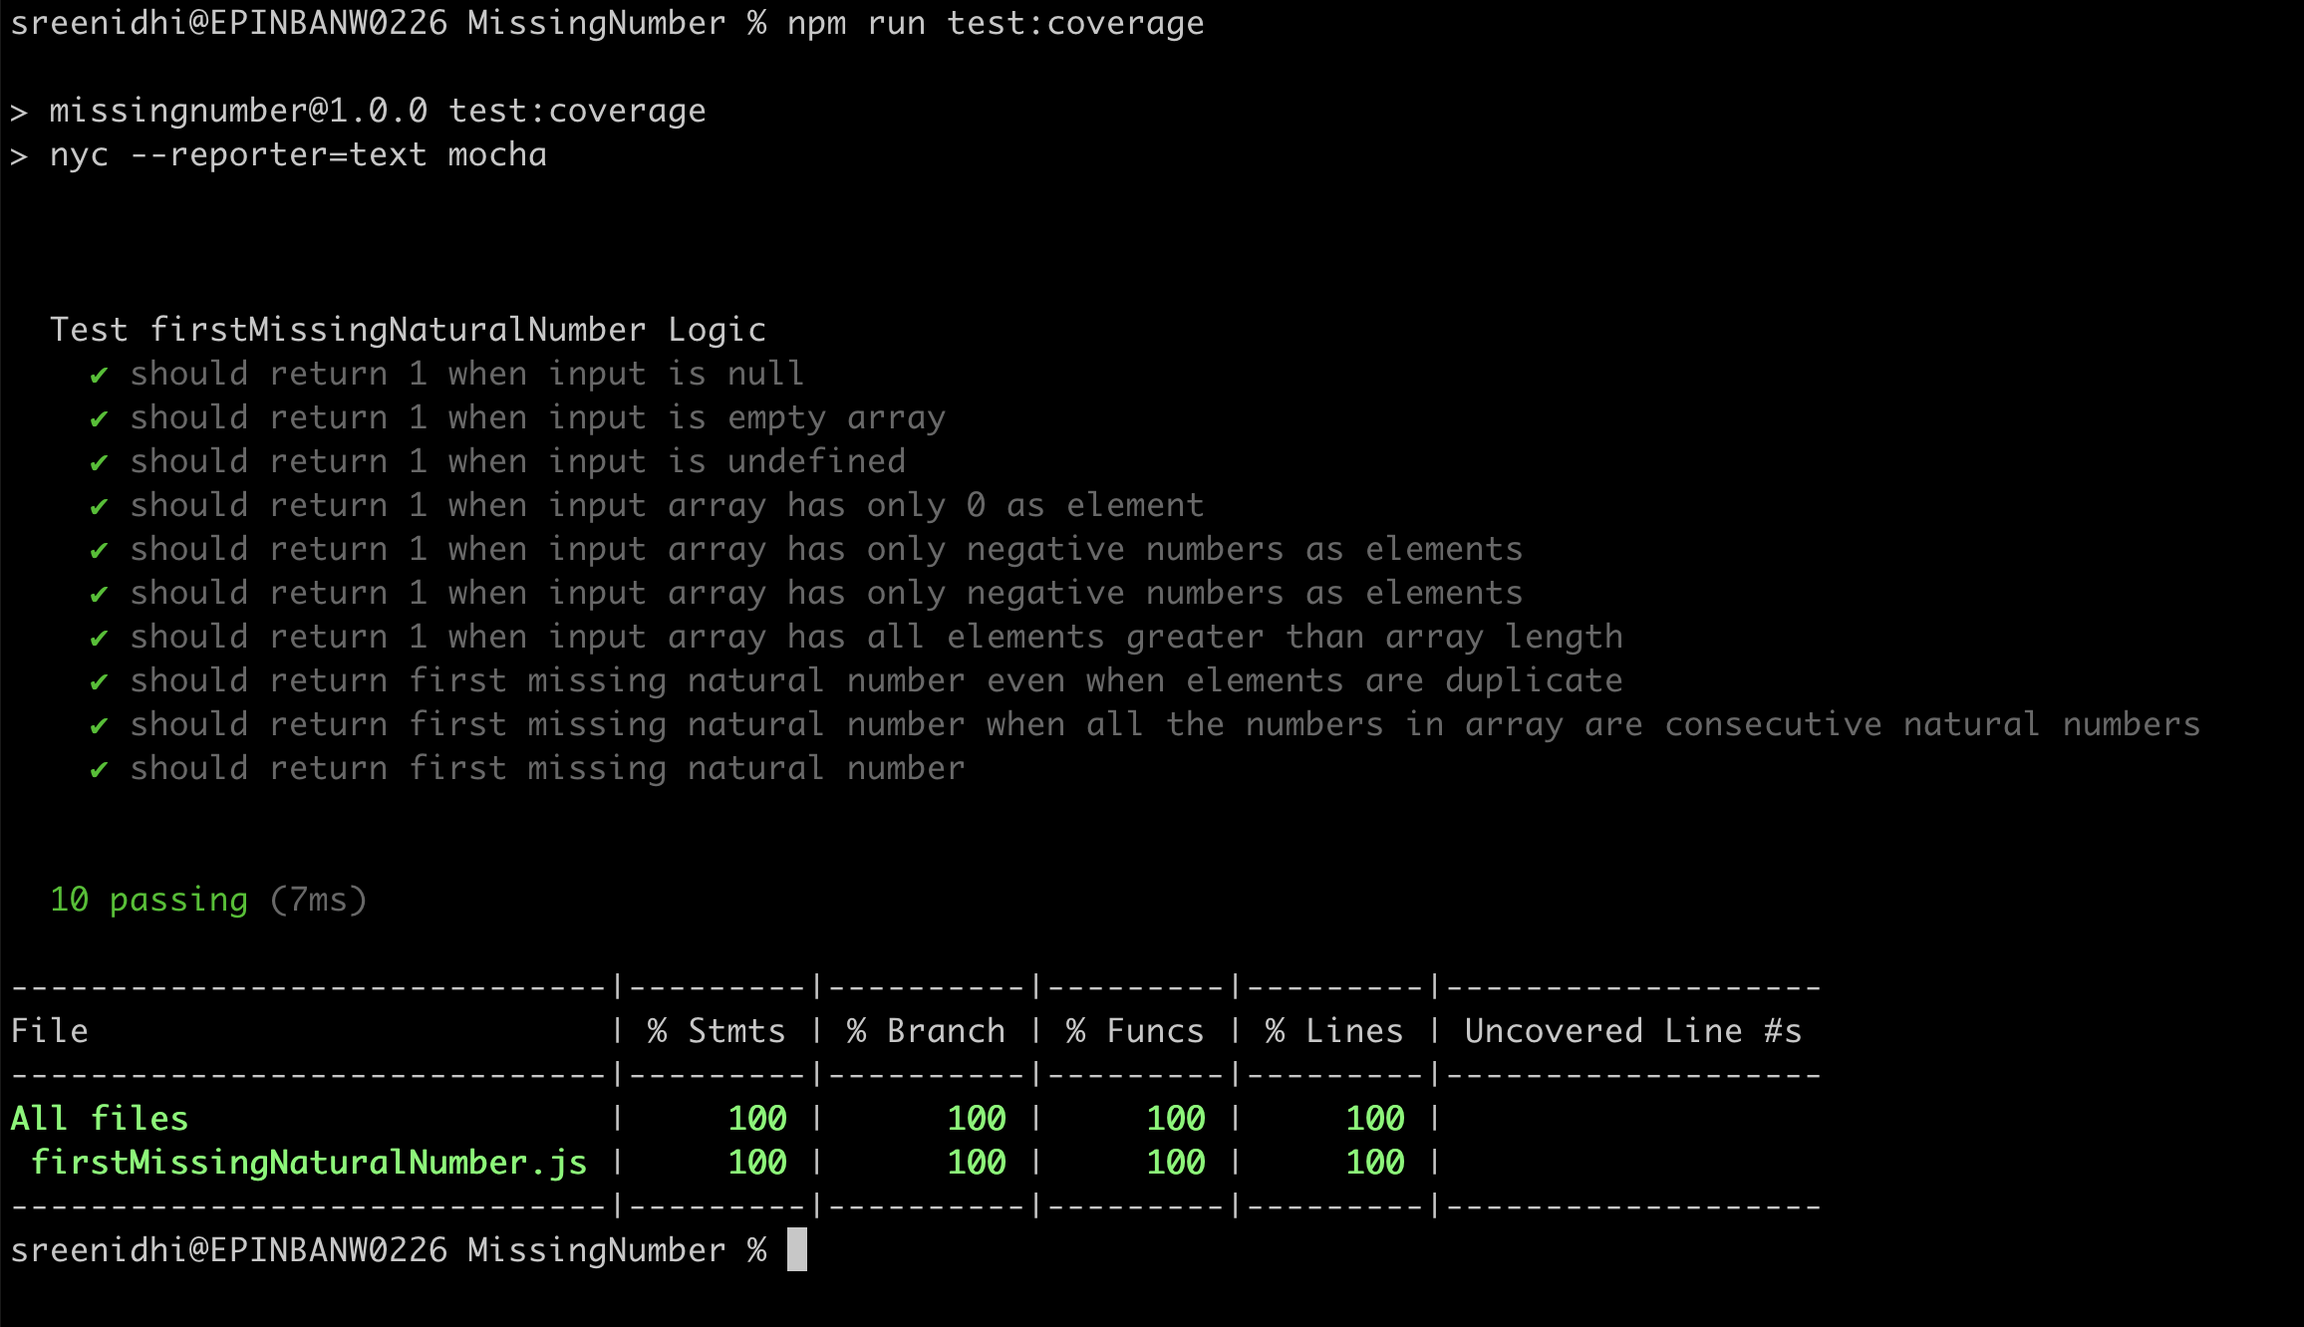
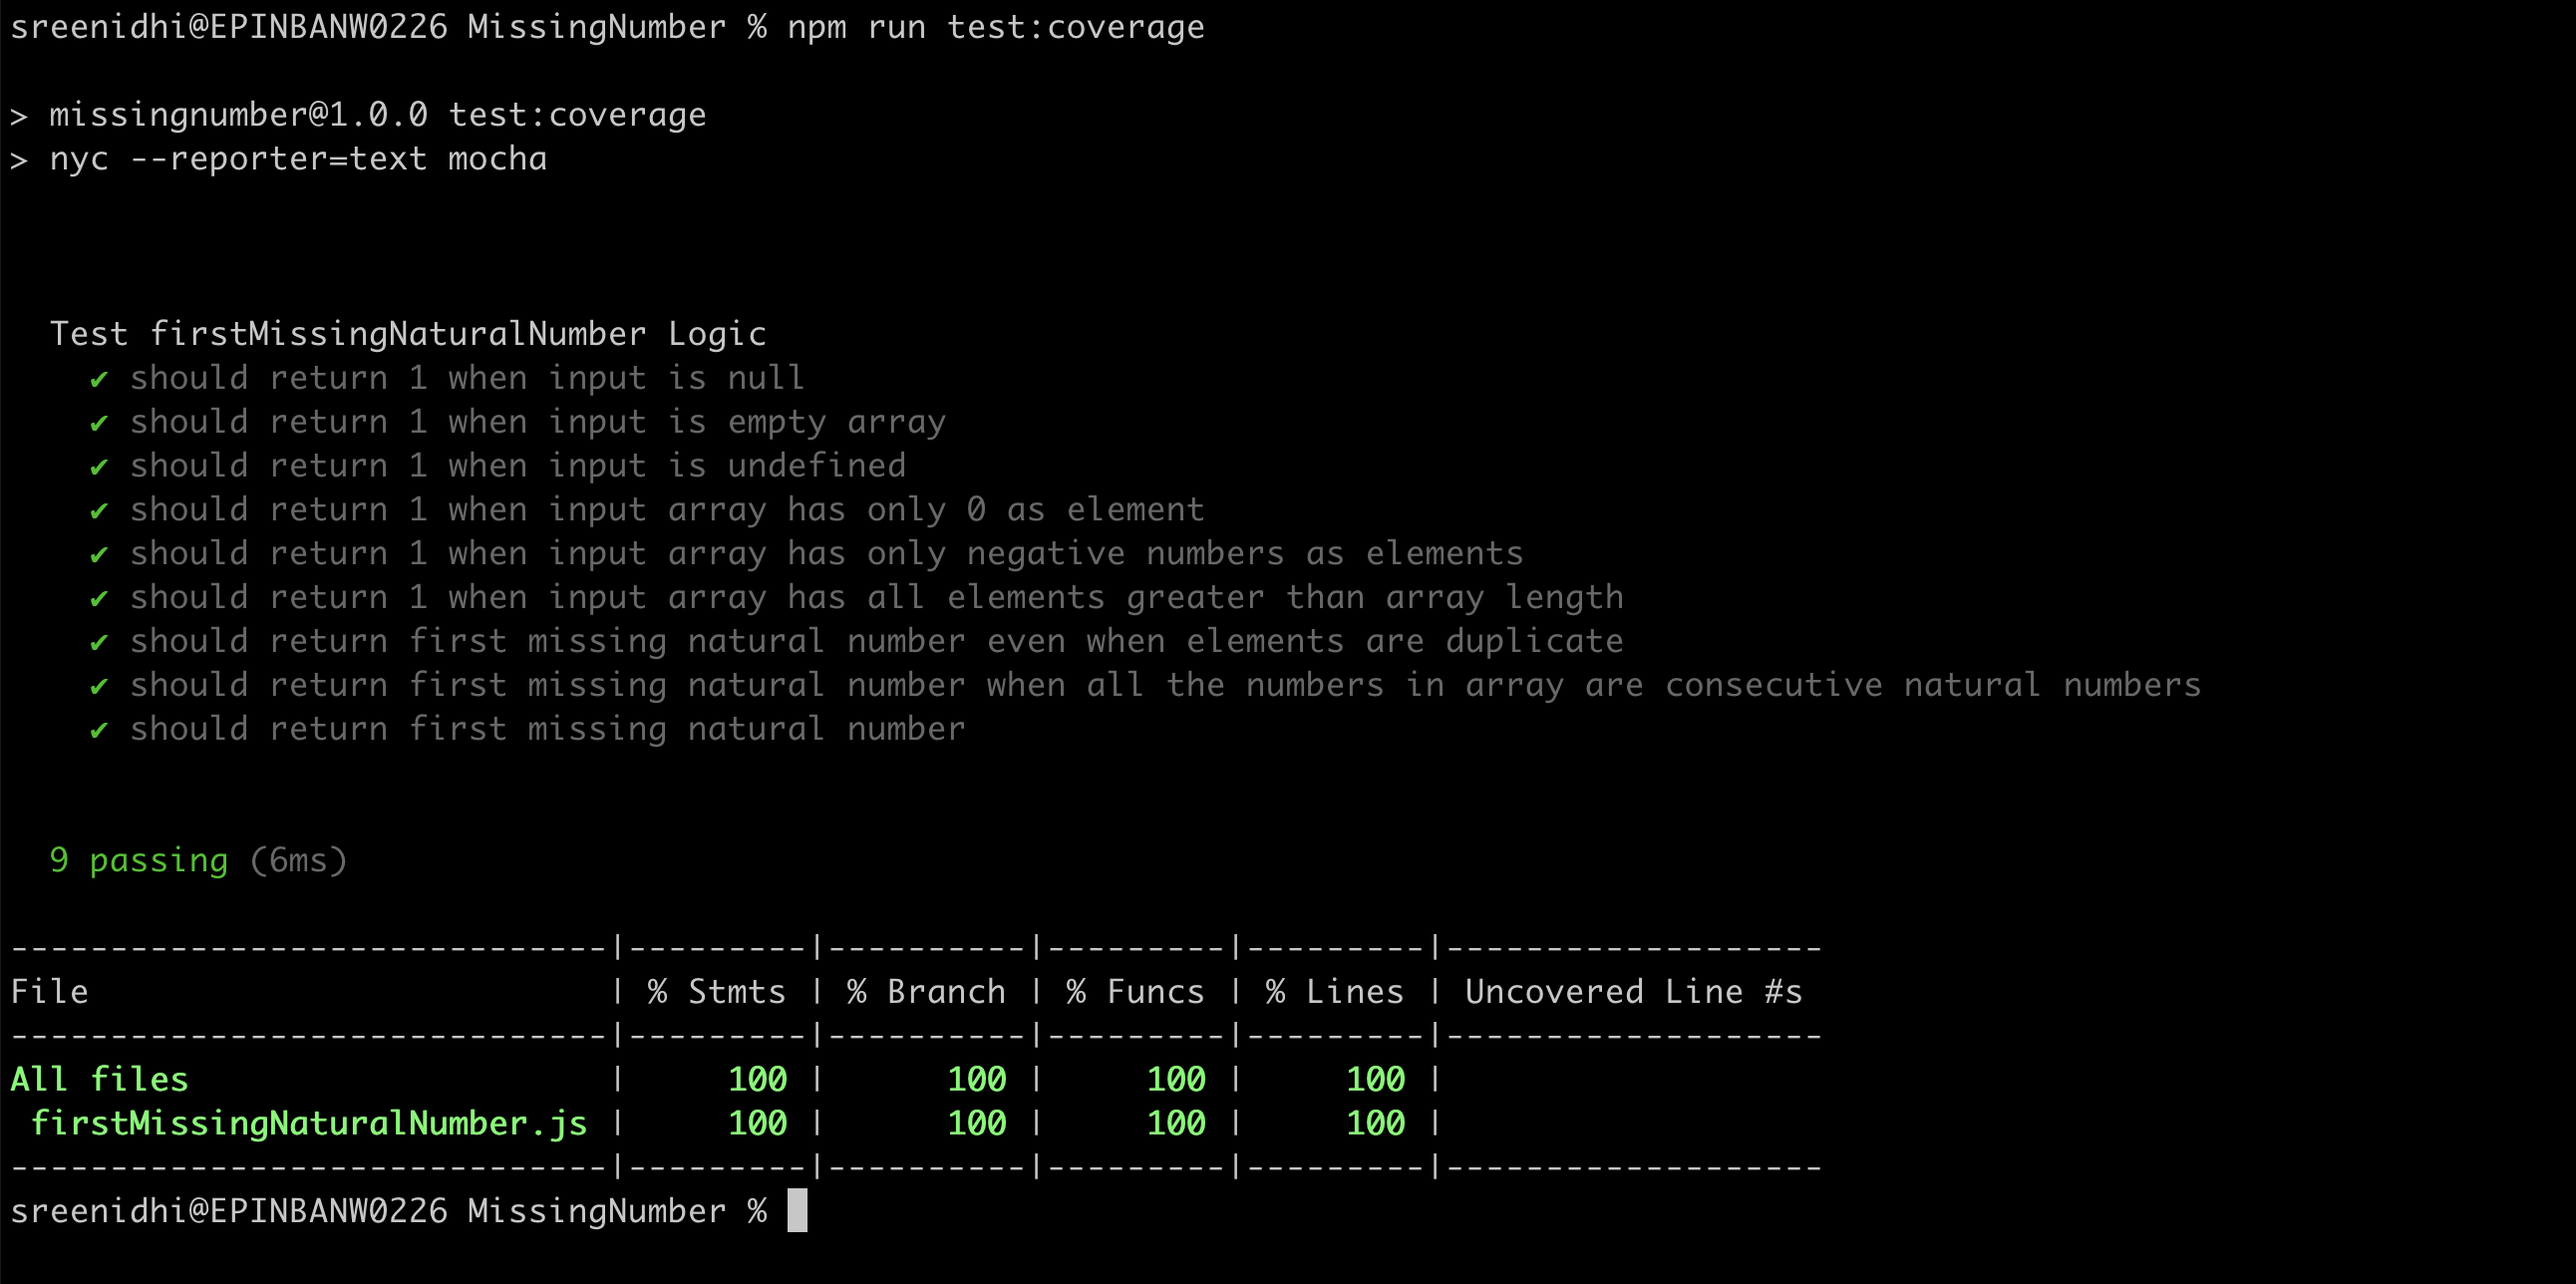
remove duplicate test specs
remove duplicate test specs

diff --git a/test/firstMissingNaturalNumber.js b/test/firstMissingNaturalNumber.js
@@ -20,9 +20,6 @@ describe('Test firstMissingNaturalNumber Logic', function () {
     it('should return 1 when input array has only negative numbers as elements', function () {
         assert.equal(firstMissingNaturalNumber([-1, -4, -8]), 1);
     });
-    it('should return 1 when input array has only negative numbers as elements', function () {
-        assert.equal(firstMissingNaturalNumber([-1, -4, -8]), 1);
-    });
     it('should return 1 when input array has all elements greater than array length', function () {
         assert.equal(firstMissingNaturalNumber([10, 45, 23]), 1);
     });
